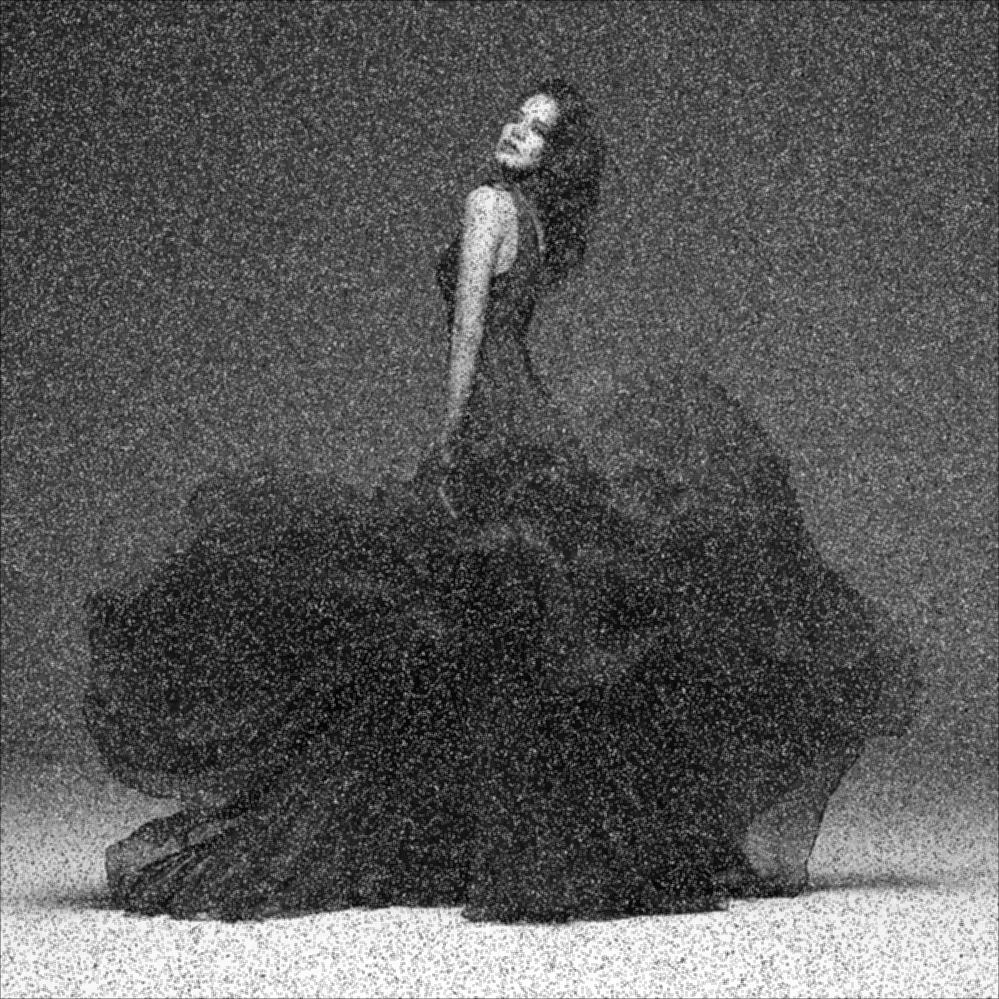
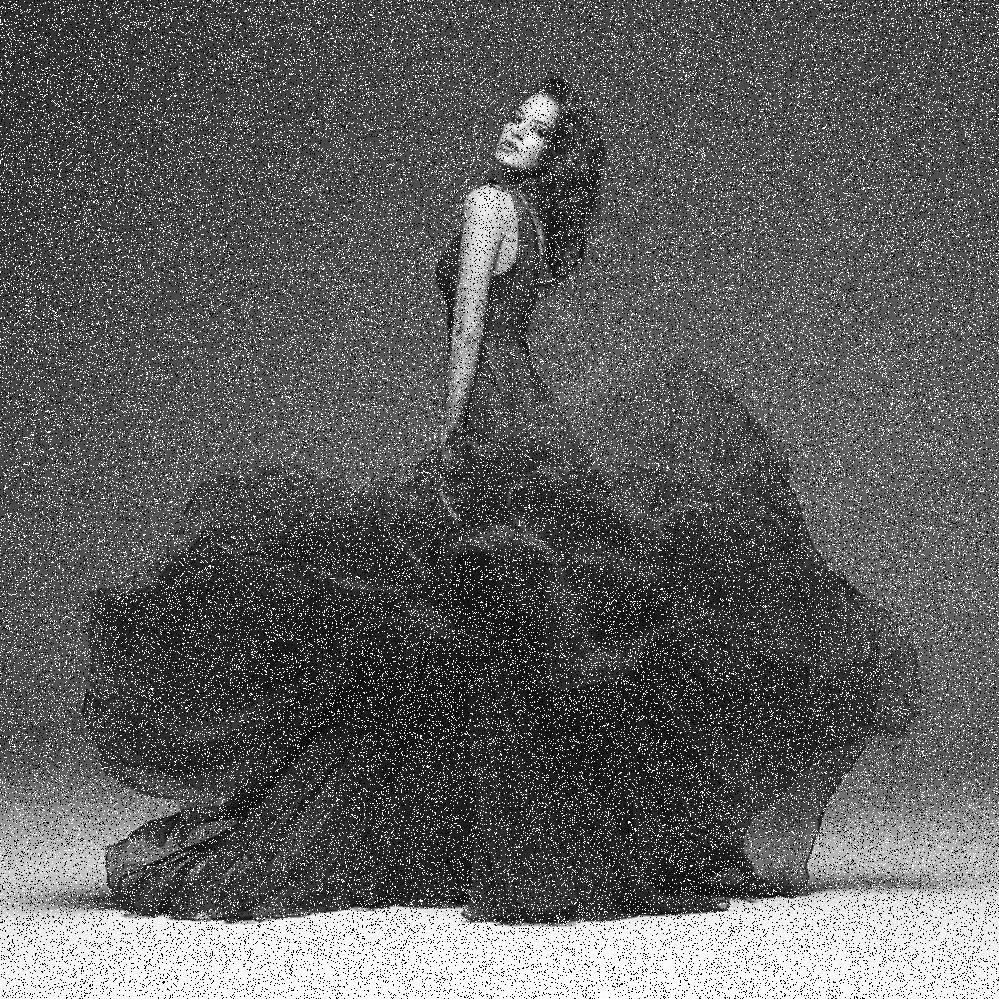
Made a few changes
Just for extensive testing

diff --git a/median.py b/median.py
@@ -1,5 +1,6 @@
 import os
 import time
+import bm3d
 import numpy as np
 import matplotlib.pyplot as plt
 import matplotlib
@@ -33,12 +34,12 @@ def median_filter(data, kernel_size):
             temp = []
     return data_final
 
-images = ["dataset/pixel.jpg", "dataset/1to1.jpg", "dataset/fashion.jpg", "dataset/lena.jpg", "dataset/nature.jpg"]
+images = ["dataset/pixel.jpg", "dataset/1to1.jpg", "dataset/fractal.jpg", "dataset/lena.jpg", "dataset/nature.jpg"]
 times_list = []
 ssim_list = []
 psnr_list = []
-# psnr_noisy_list = []
-# ssim_noisy_list = []
+psnr_noisy_list = []
+ssim_noisy_list = []
 
 for image in images:
     image = os.path.join(image) 
@@ -47,14 +48,15 @@ for image in images:
     noisy_img = add_noise(img, 0.1)
 
     start = time.time()
+    # denoise = bm3d.bm3d(noisy_img, sigma_psd=.1, stage_arg=noisy_img)
     denoised_img = median_filter(noisy_img, 3)
     end = time.time()
     times_list.append(end - start)
 
     psnr_list.append(PSNR(img, denoised_img))
     ssim_list.append(SSIM(img, denoised_img))
-    # psnr_noisy_list.append(PSNR(img, noisy_img))
-    # ssim_noisy_list.append(SSIM(img, noisy_img))
+    psnr_noisy_list.append(PSNR(img, noisy_img))
+    ssim_noisy_list.append(SSIM(img, noisy_img))
 
 
     display = [img, noisy_img, denoised_img]
@@ -79,5 +81,5 @@ for image in images:
 print('PSNR: ', psnr_list)
 print('SSIM: ', ssim_list)
 print('Times: ', times_list)
-# print('PSNR noisy: ', psnr_noisy_list)
-# print('SSIM noisy: ', ssim_noisy_list)
+print('PSNR noisy: ', psnr_noisy_list)
+print('SSIM noisy: ', ssim_noisy_list)

diff --git a/bm3d(1).py b/bm3d(1).py
@@ -16,7 +16,7 @@ ssim_list = []
 psnr_list = []
 psnr_noisy_list = []
 ssim_noisy_list = []
-
+ 
 for image in images:
     image = os.path.join(image) 
     img = grayscale(plt.imread(image))
